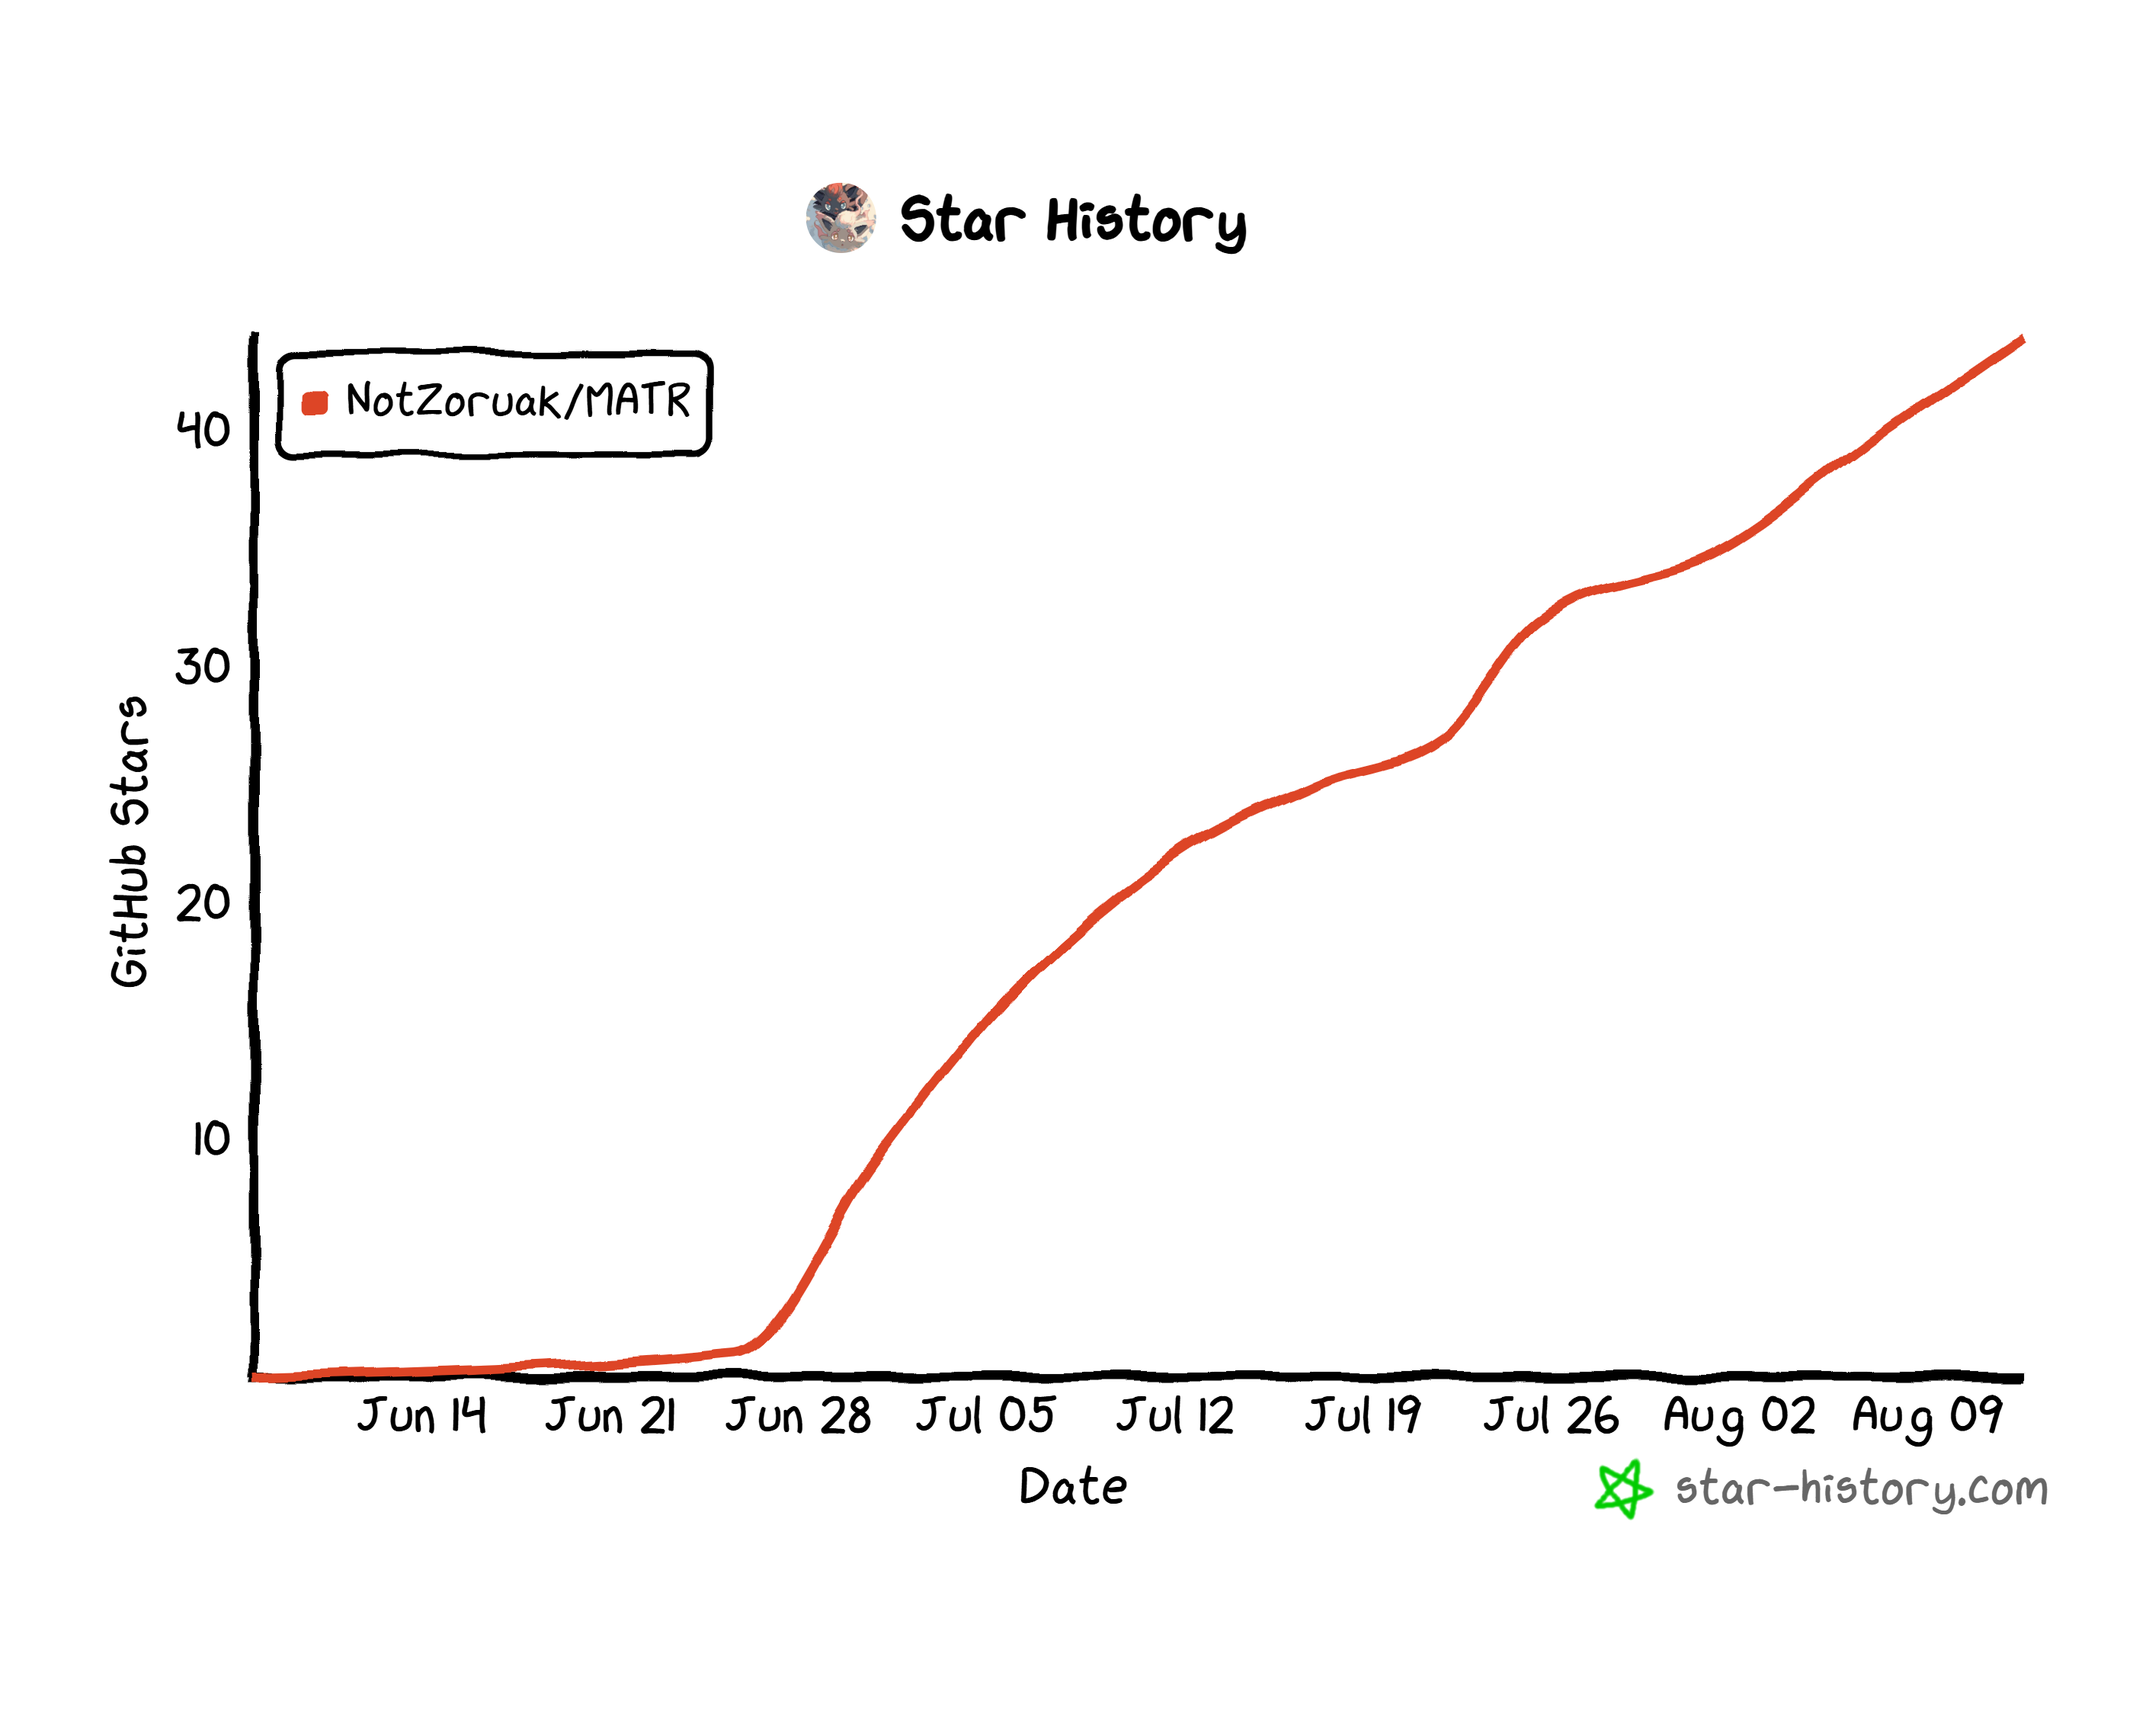
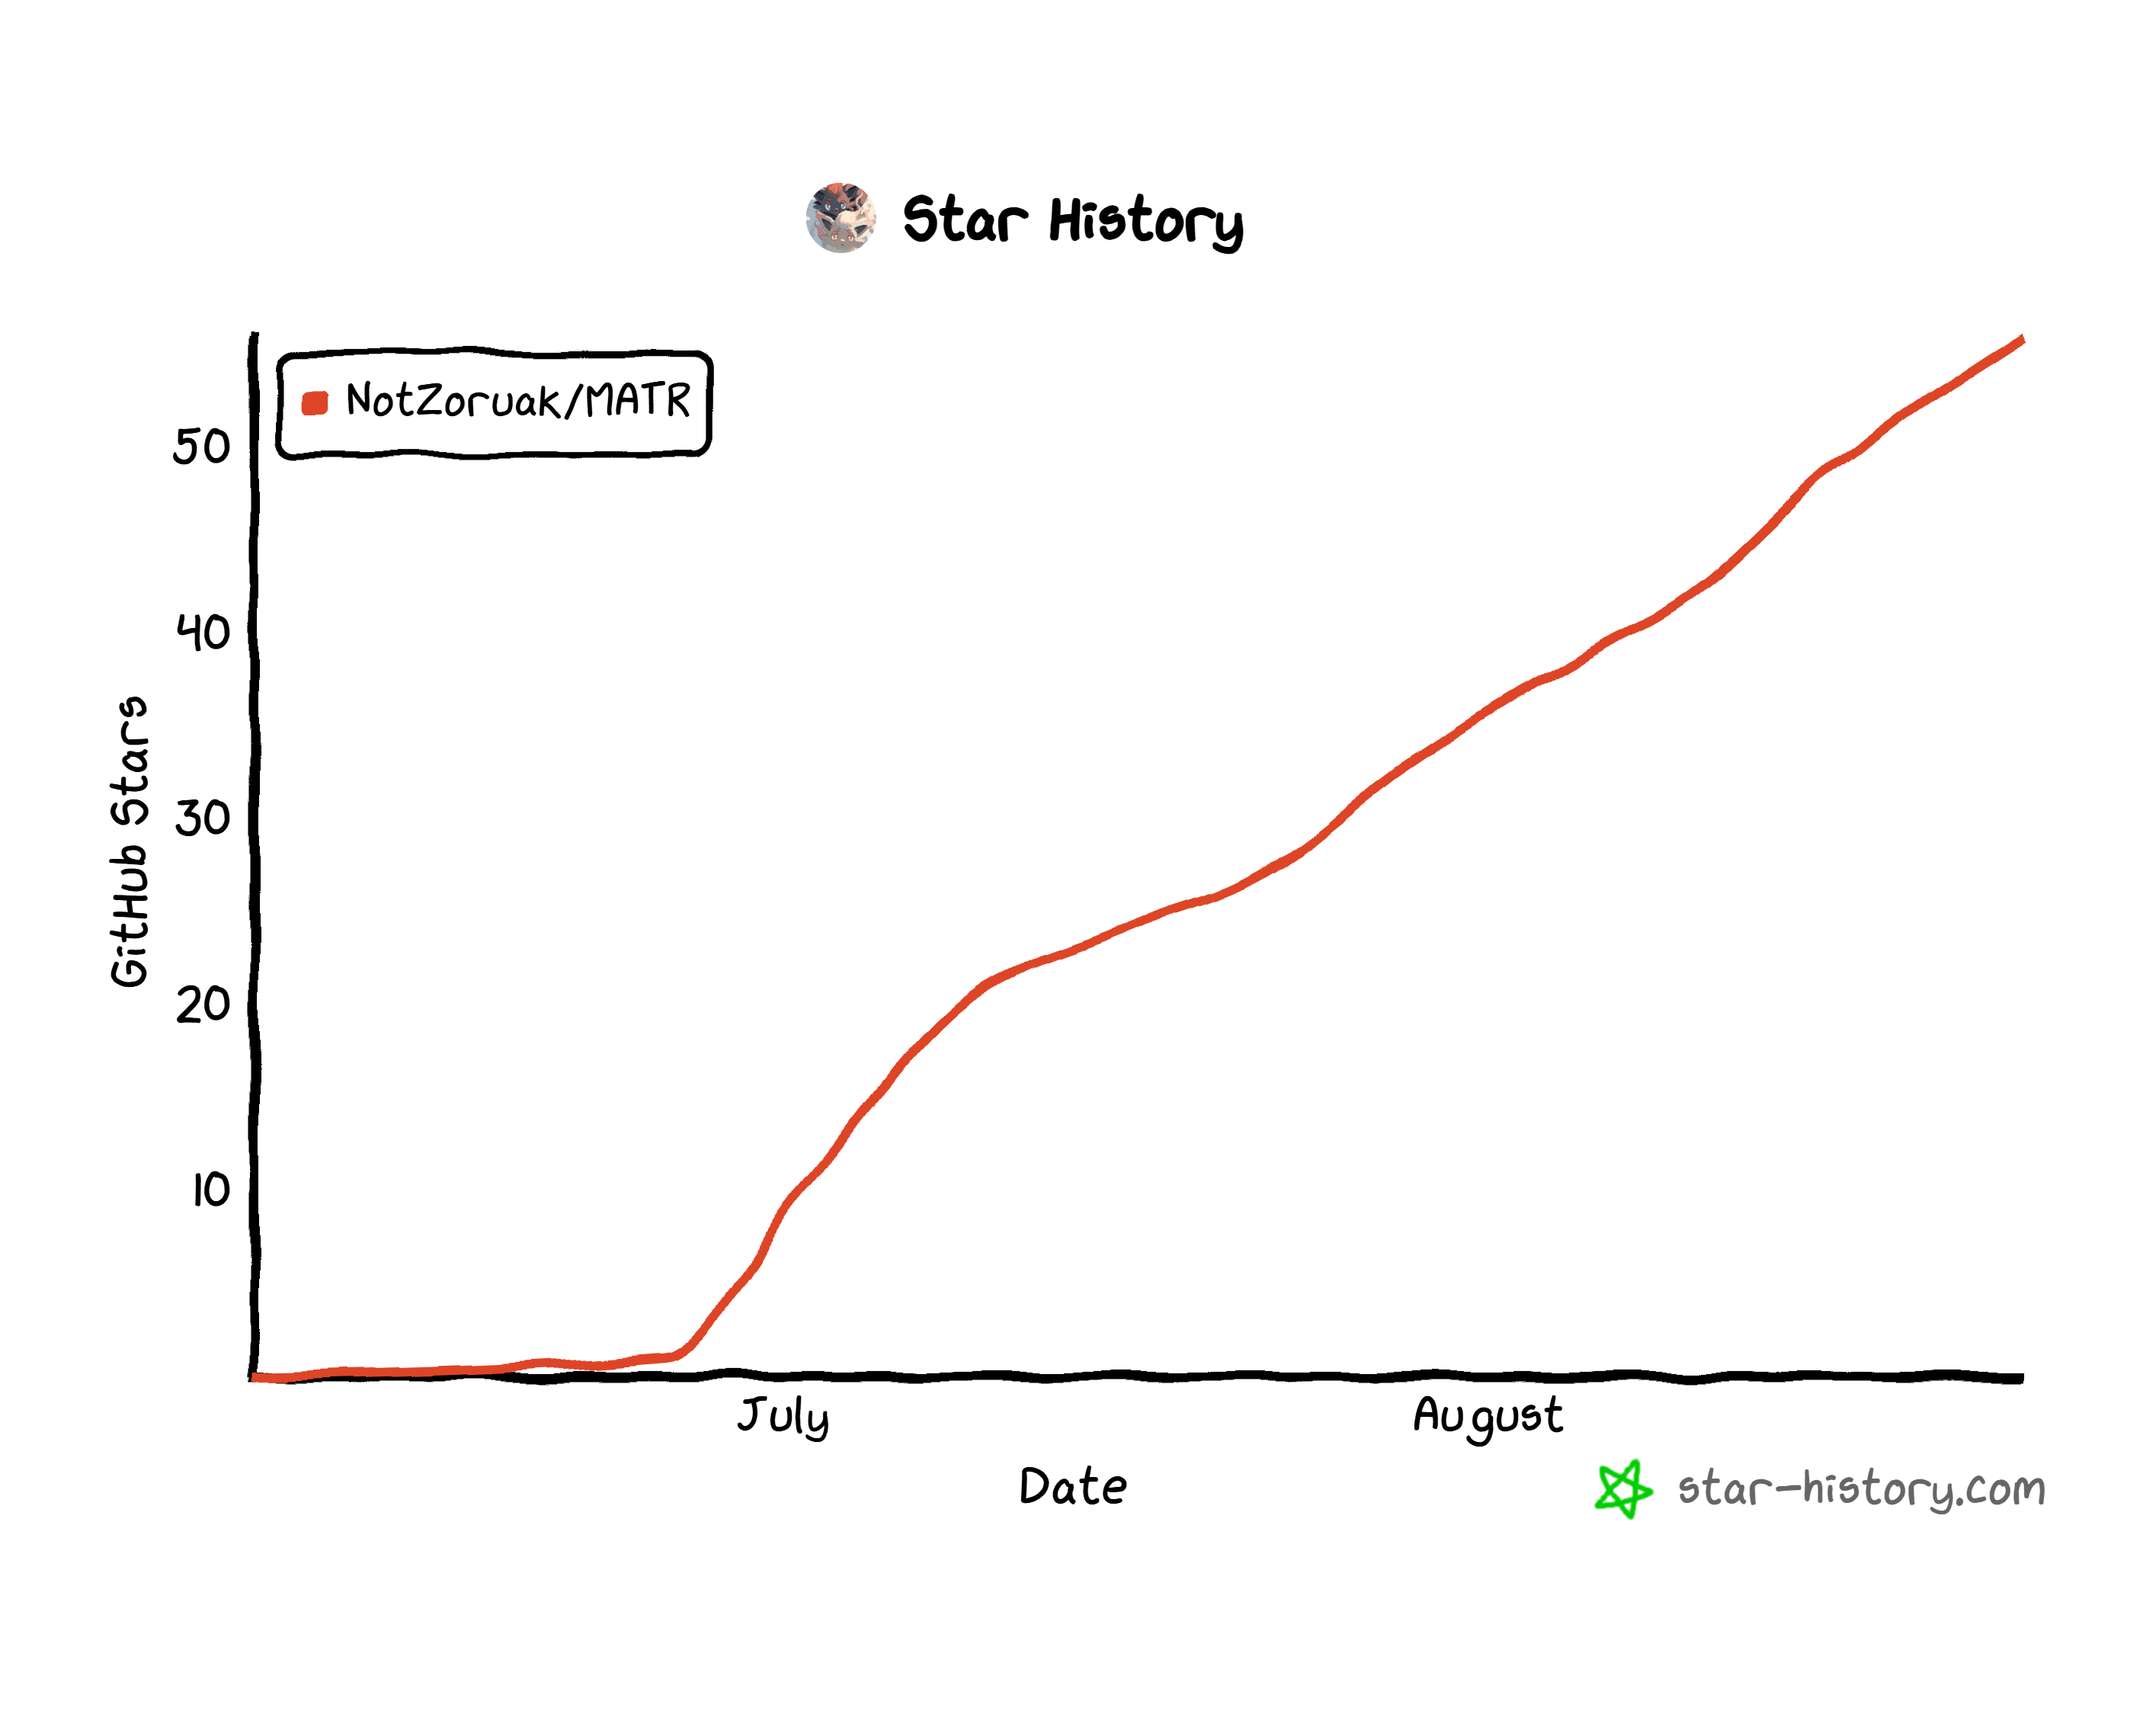
feat: add daily task pipeline skeleton and refine option UI

diff --git a/_src/MFAAvalonia/Helper/TaskOptionGenerator.cs b/_src/MFAAvalonia/Helper/TaskOptionGenerator.cs
@@ -193,12 +193,6 @@ public class TaskOptionGenerator(TaskQueueViewModel viewModel, Action saveConfig
         };
         titleBlock.Bind(TextBlock.ForegroundProperty, new DynamicResourceExtension("SukiLowText"));
         labelPanel.Children.Add(titleBlock);
-
-        var docBlock = new TooltipBlock
-        {
-            TooltipText = "供日课合成、锻刀前刀解等消耗刀剑功能共同使用的全局名单。上锁刀剑始终排除，普通与极化形态按名称共享许可状态。",
-        };
-        labelPanel.Children.Add(docBlock);
         Grid.SetColumn(labelPanel, 0);
         grid.Children.Add(labelPanel);
 
@@ -353,11 +347,12 @@ public class TaskOptionGenerator(TaskQueueViewModel viewModel, Action saveConfig
         {
             e.Handled = true;
             var subPanel = new StackPanel { Spacing = 4, Margin = new Thickness(0, 0, 0, 0) };
+            // 仅多个带子选项的 case 时渲染 case 标题；单选项场景标题与返回键旁重复，不渲染
+            var caseCount = interfaceOption.Cases?.Count(c => c.Option is { Count: > 0 }) ?? 0;
             foreach (var caseOption in interfaceOption.Cases ?? [])
             {
                 if (caseOption.Option == null || caseOption.Option.Count == 0) continue;
-                // case 无 DisplayName 时（单选项场景）不渲染标题，避免产生多余空隙
-                if (!string.IsNullOrWhiteSpace(caseOption.DisplayName))
+                if (caseCount > 1 && !string.IsNullOrWhiteSpace(caseOption.DisplayName))
                 {
                     subPanel.Children.Add(new TextBlock
                     {
@@ -367,7 +362,8 @@ public class TaskOptionGenerator(TaskQueueViewModel viewModel, Action saveConfig
                         Margin = new Thickness(0, 2, 0, 2),
                     });
                 }
-                var subWrap = new WrapPanel { Orientation = Orientation.Horizontal, Margin = new Thickness(0, 0, 0, 0) };
+                // 子选项垂直排列，每项独占一行并横向拉伸，与任务选项面板的下拉框尺寸一致
+                var subWrap = new StackPanel { Margin = new Thickness(0, 0, 0, 0) };
                 foreach (var subName in caseOption.Option)
                 {
                     if (MaaProcessor.Interface?.Option?.TryGetValue(subName, out var subDef) != true) continue;
@@ -378,7 +374,7 @@ public class TaskOptionGenerator(TaskQueueViewModel viewModel, Action saveConfig
                         option.SubOptions.Add(subSelect);
                     var savedDesc = subDef.Description;
                     subDef.Description = null;
-                    var itemBox = new StackPanel { Margin = new Thickness(0, 0, 12, 4) };
+                    var itemBox = new StackPanel { Margin = new Thickness(0, 0, 0, 4) };
                     AddSubOption(itemBox, subSelect, source);
                     subDef.Description = savedDesc;
                     var subDesc = GetTooltipText(savedDesc, subDef.Document);

diff --git a/docs/开发日志.md b/docs/开发日志.md
@@ -2168,3 +2168,22 @@ E_ClickRepairButton(模板 本丸修复.png + 点击 + post_wait_freezes)
 - 桌面程序已完成 Release 发布并复制到开发目录产物位置。
 - 仓库自动识别和刀帐错误页面提示已完成实际运行验证。
 - 正式资源版本更新为 `v0.11.1`，beta 公告不再作为正式版公告展示。
+
+## 工作记录后勤归属与刀剑掉落校验修复（2026-08-24）
+
+### 后勤词条归属
+
+- 为运行记录增加“由停止状态明确结束”的解析期标记。出现“停止前状态”后，该记录不再接收后续关联词条，避免历史后勤任务吸收新一轮出阵期间产生的后勤、远征计时等日志。
+- 未经“停止前状态”明确结束的任务记录仍可接收同配置的后续关联词条，保持并行任务与同步后勤场景的归属能力。
+- 当没有可接收的独立后勤记录时，后勤词条回归当前出阵记录，使地下城、合战场等任务运行期间的同步后勤继续展示在该任务的“后勤记录”卡片中。
+- 新增回归场景：先停止独立后勤任务，再开始地下城并产生派遣远征词条；验证该词条只归入新的地下城记录。
+
+### 刀剑掉落名称校验
+
+- `SwordDropLogAction` 在刀种与刀名校验时增加受控相近字形匹配，覆盖“堀/掘”“广/広/厂”“国/國”等常见 OCR 混淆。
+- 仍要求刀种、刀名整体校验通过才写入掉落日志，无法确认的 OCR 结果不会计入工作记录。
+
+### 验证
+
+- 工作记录回归测试通过。
+- 解决方案构建与桌面程序 Release 发布均通过，均为 0 个错误。

diff --git a/docs/工作记录页设计.md b/docs/工作记录页设计.md
@@ -334,3 +334,21 @@ WorkRecordsView      左侧列表 + 右侧卡片布局
 - 老日志无 `inst=`:按原有单配置逻辑解析,无法确定实例时不显示实例名称。
 - 老 `saved_work_records.json` 中没有实例 ID时,反序列化为空,不影响打开记录。
 - 已保存记录的 `Segments` 内每段保留实例 ID,后续再次合并时继续参与去重校验。
+
+## 后勤词条归属规则（2026-08-24）
+
+### 解析期结束标记
+
+“停止前状态”代表该任务已被队列明确停止。解析器为该记录设置仅在本次解析过程中使用的结束标记；带有此标记的记录不再接收后续关联词条。
+
+任务因切换到另一任务而结束展示时，若未出现“停止前状态”，不设置该标记。这样既能保留同步后勤、并行任务的后续词条归属，也不会把用户明确停止的旧后勤任务重新激活。
+
+### 后勤与远征计时归属
+
+- 解析 `[后勤]`、`[远征计时]` 等关联词条时，优先归入同配置中尚未被明确停止的后勤记录。
+- 不存在可接收的独立后勤记录时，词条归入当前任务记录；因此出阵期间的同步后勤会显示在当前出阵记录的“后勤记录”卡片中。
+- 已明确停止的历史后勤记录不会吸收之后地下城、合战场等任务产生的后勤词条。
+
+### 回归场景
+
+日志顺序为“开始后勤 → 后勤词条 → 停止前状态 → 开始地下城 → 后勤派遣远征 → 地下城点击行军”时，派遣远征必须归入地下城记录，而非先前停止的后勤记录。
